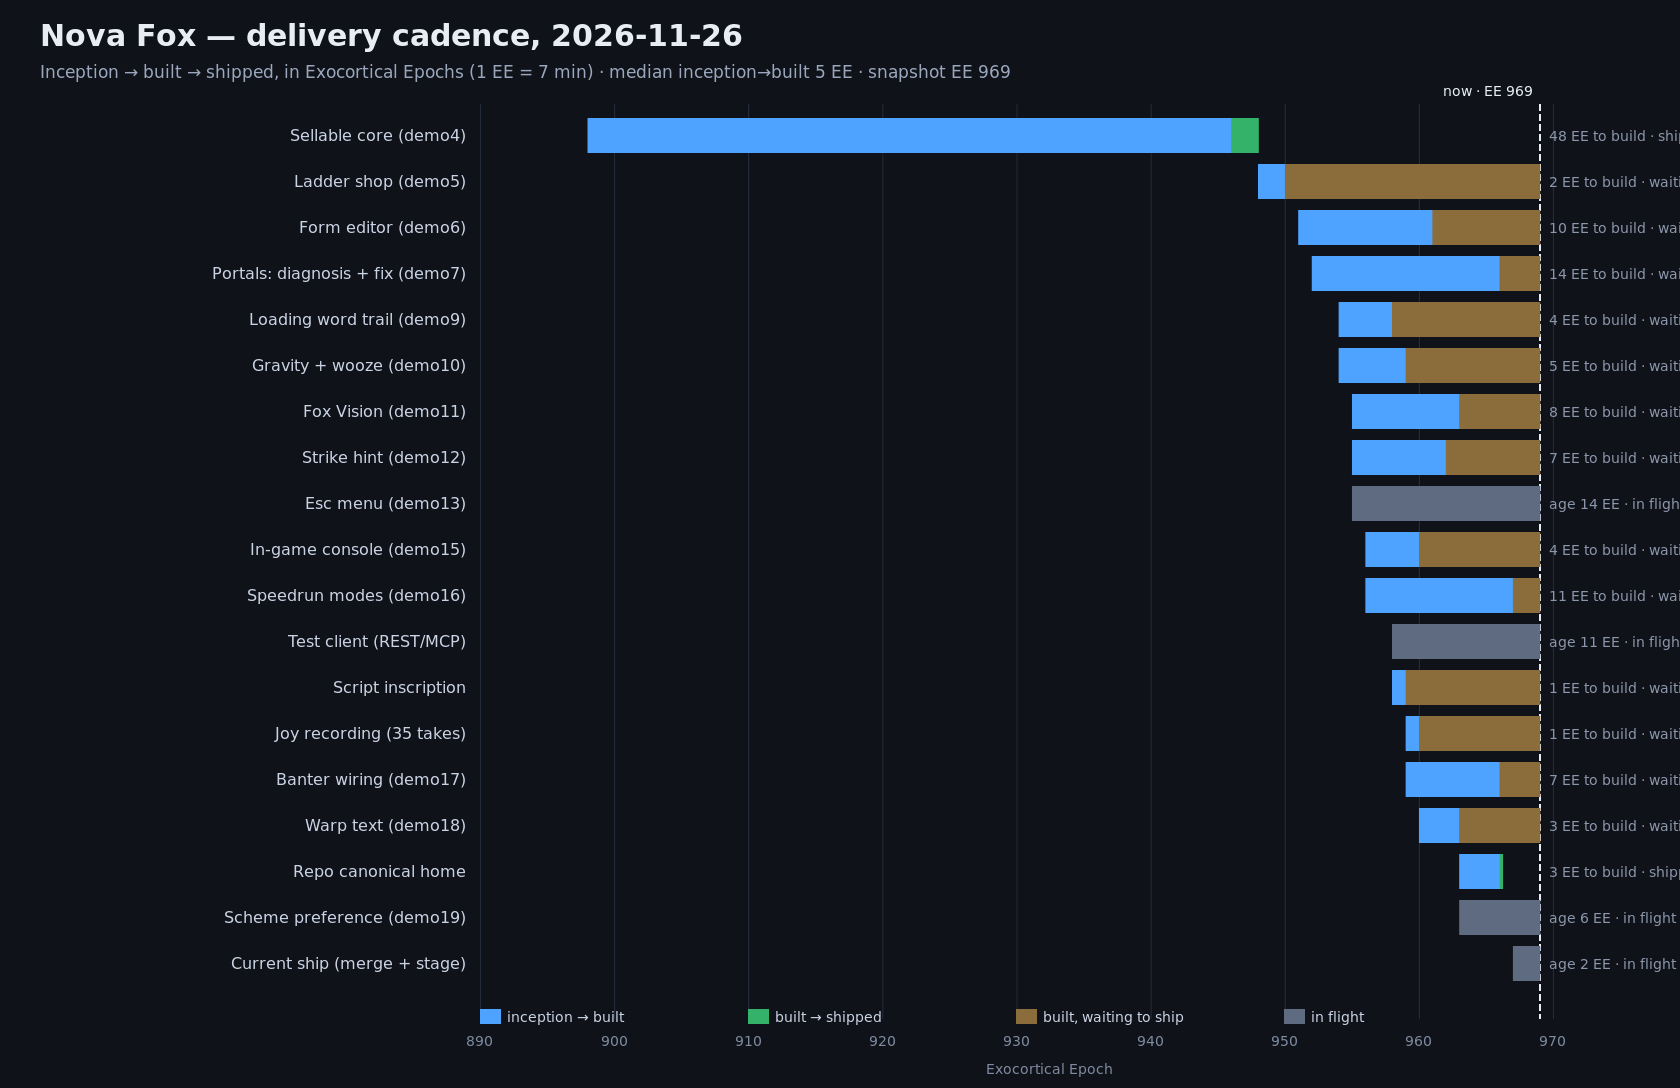
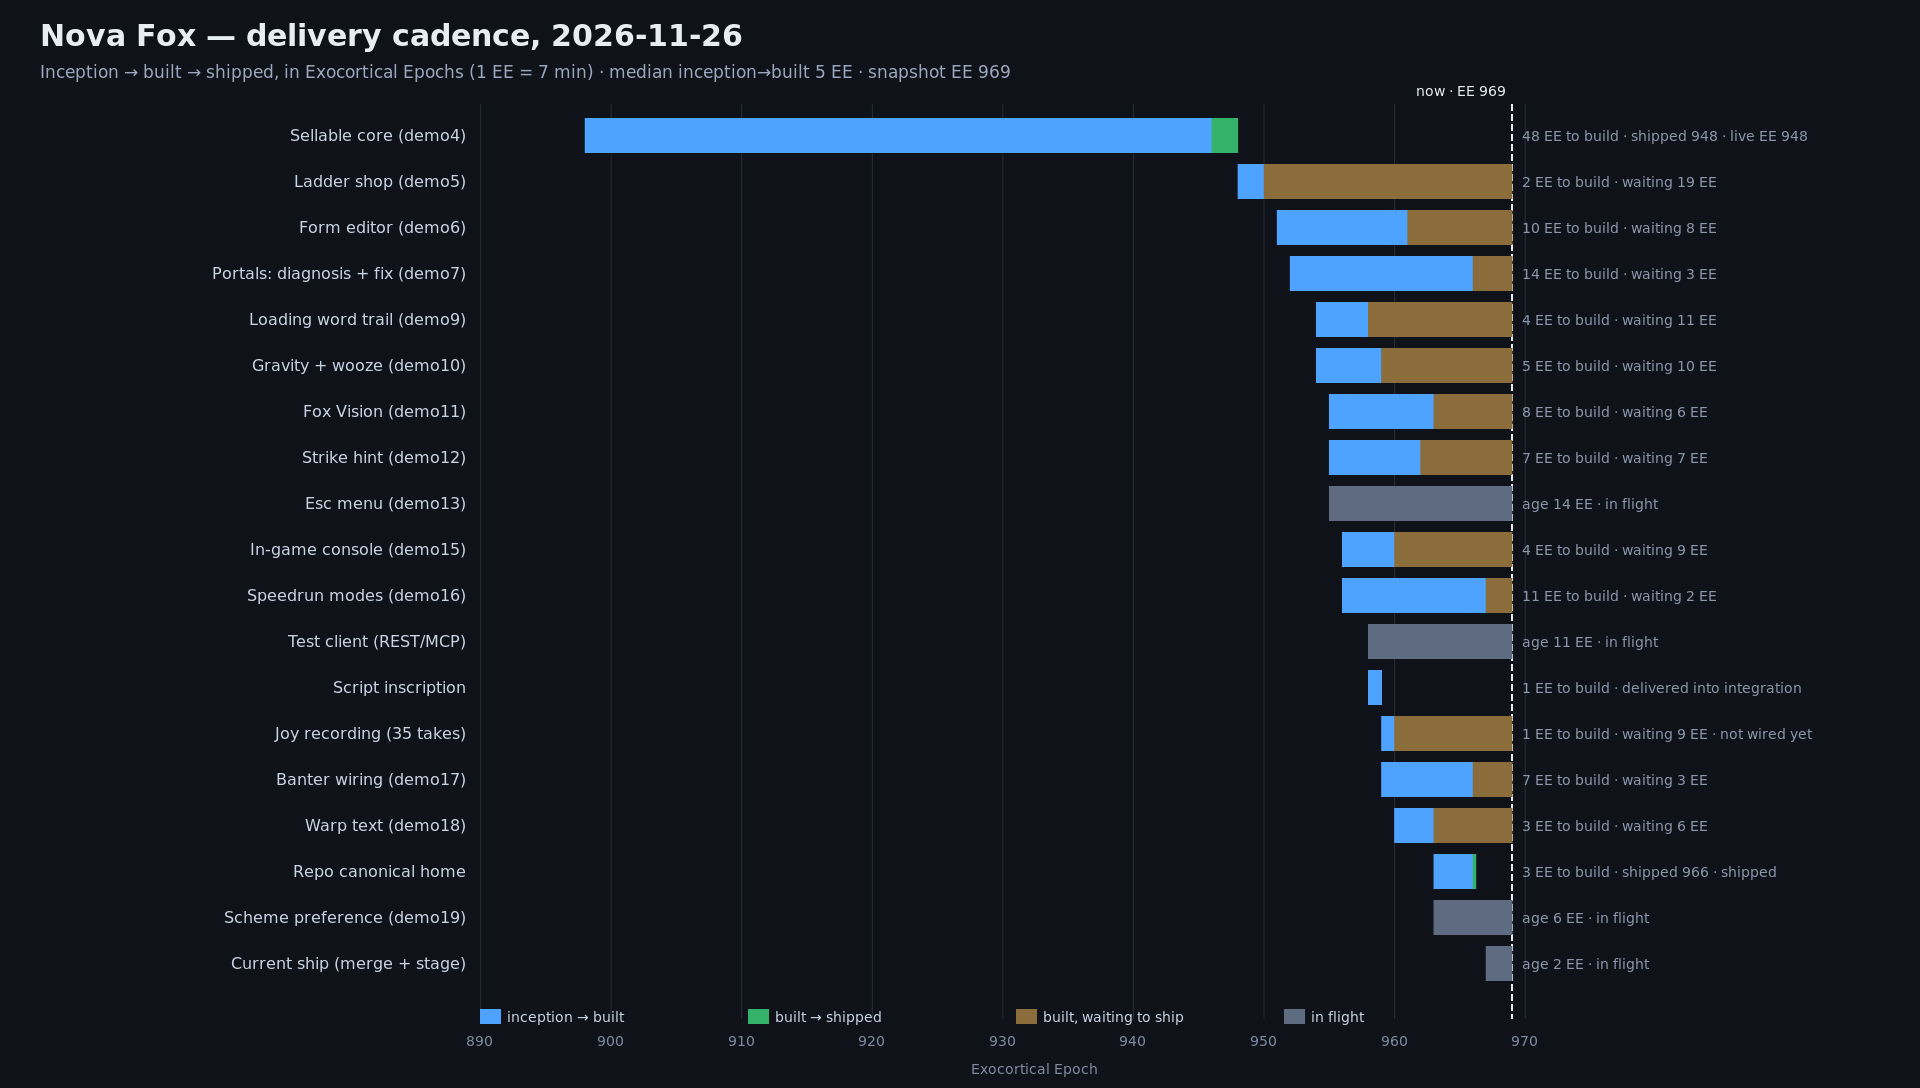
Cadence graph: widen right margin so row annotations fit; inscription marked delivered (EE 969)

diff --git a/cadence/make_graph.py b/cadence/make_graph.py
@@ -25,7 +25,7 @@ ROWS = [
     ("Scheme preference (demo19)",   963, None, None, "in flight"),
     ("Current ship (merge + stage)", 967, None, None, "in flight"),
 ]
-W, LM, RM = 1680, 480, 60
+W, LM, RM = 1920, 480, 330
 TOP, RH, GAP = 118, 34, 12
 PW = W - LM - RM
 H = TOP + len(ROWS) * (RH + GAP) + 96
@@ -55,13 +55,15 @@ for i, (label, inc, built, ship, note) in enumerate(ROWS):
         s.append(f'<text x="{X(NOW)+10:.1f}" y="{cy+6}" font-family="DejaVu Sans" font-size="14" fill="#8b96ab">age {NOW-inc} EE &#183; in flight</text>')
     else:
         s.append(f'<rect x="{X(inc):.1f}" y="{y}" width="{X(built)-X(inc):.1f}" height="{RH}" fill="{C_BUILD}"/>')
-        if ship is not None:
+        if label == "Script inscription":
+            tail = f'{built-inc} EE to build &#183; delivered into integration'
+        elif ship is not None:
             s.append(f'<rect x="{X(built):.1f}" y="{y}" width="{max(X(ship)-X(built),3):.1f}" height="{RH}" fill="{C_SHIP}"/>')
             tail = f'{built-inc} EE to build &#183; shipped {ship}'
         else:
             s.append(f'<rect x="{X(built):.1f}" y="{y}" width="{X(NOW)-X(built):.1f}" height="{RH}" fill="{C_OPEN}" fill-opacity="0.55"/>')
             tail = f'{built-inc} EE to build &#183; waiting {NOW-built} EE'
-        if note: tail += f' &#183; {note}'
+        if note and label != "Script inscription": tail += f' &#183; {note}'
         s.append(f'<text x="{X(NOW)+10:.1f}" y="{cy+6}" font-family="DejaVu Sans" font-size="14" fill="#8b96ab">{tail}</text>')
 # legend
 ly = H - 66
